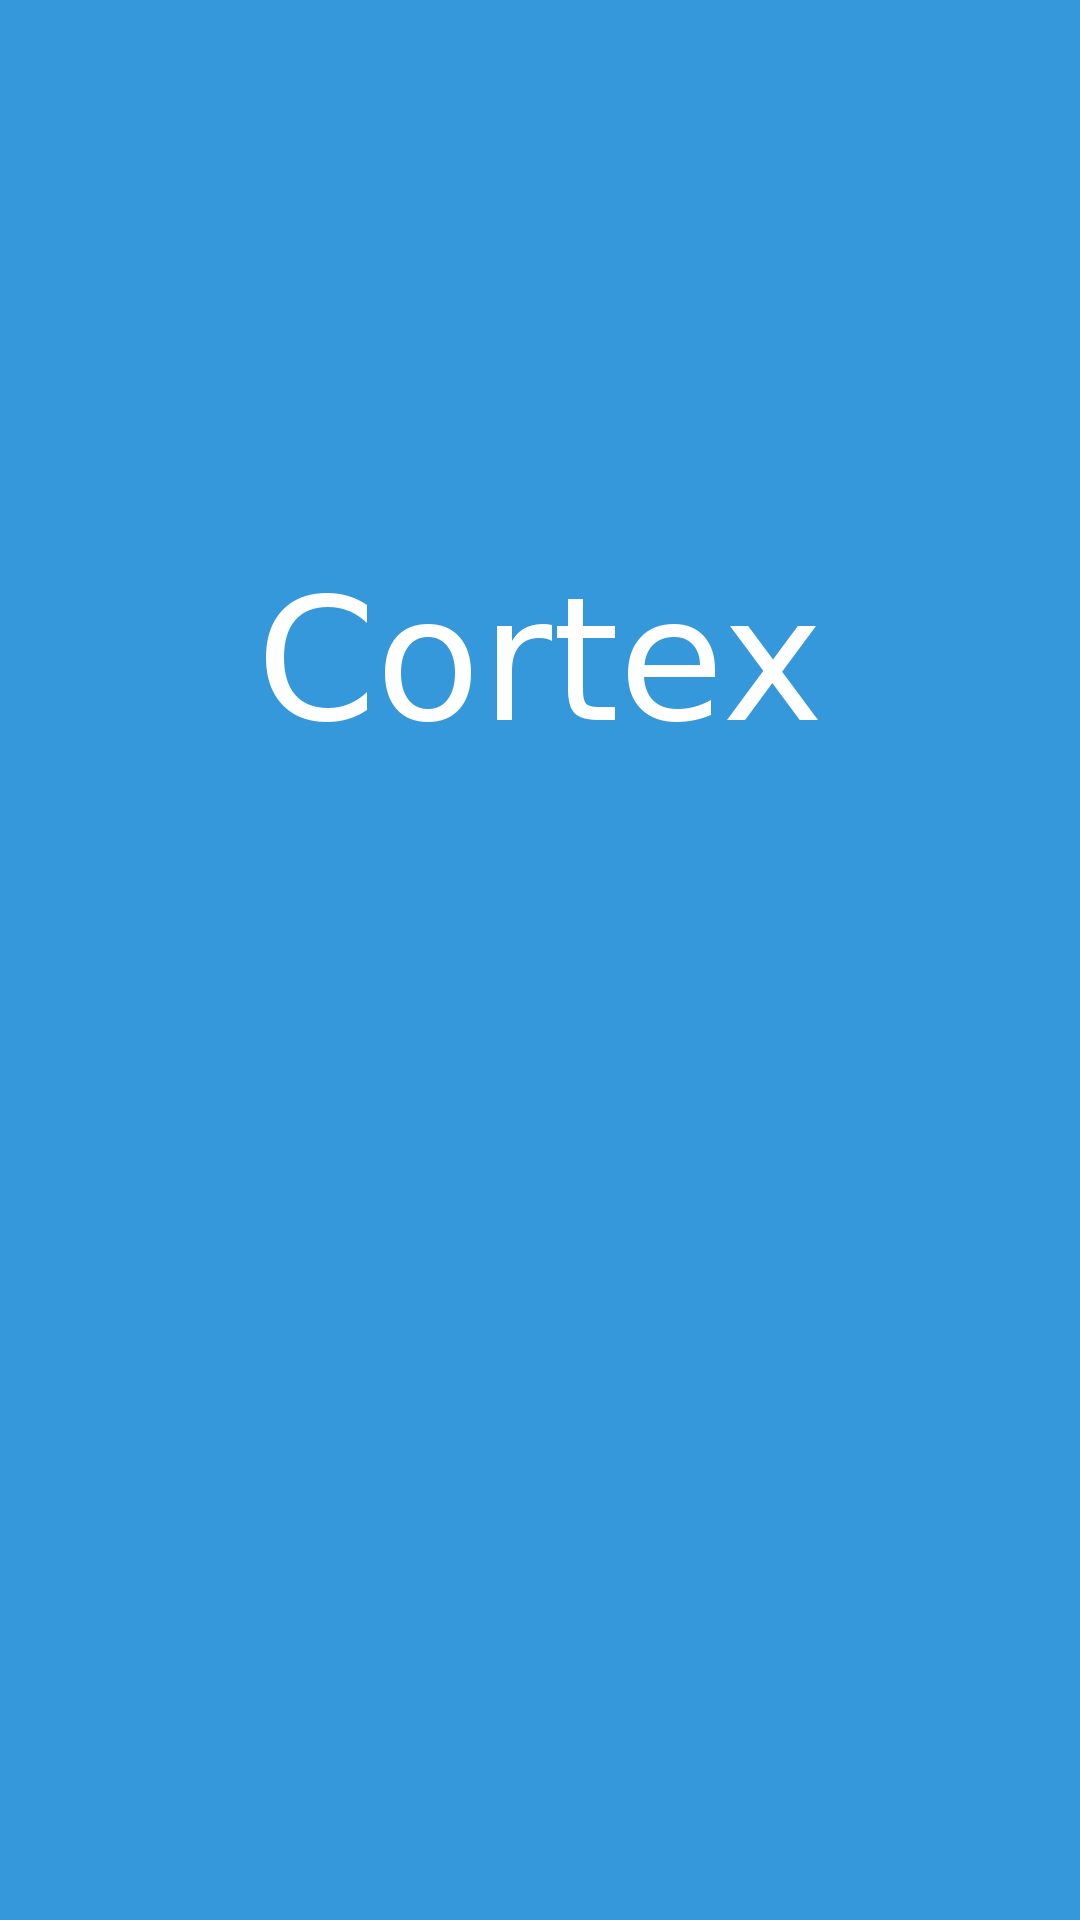
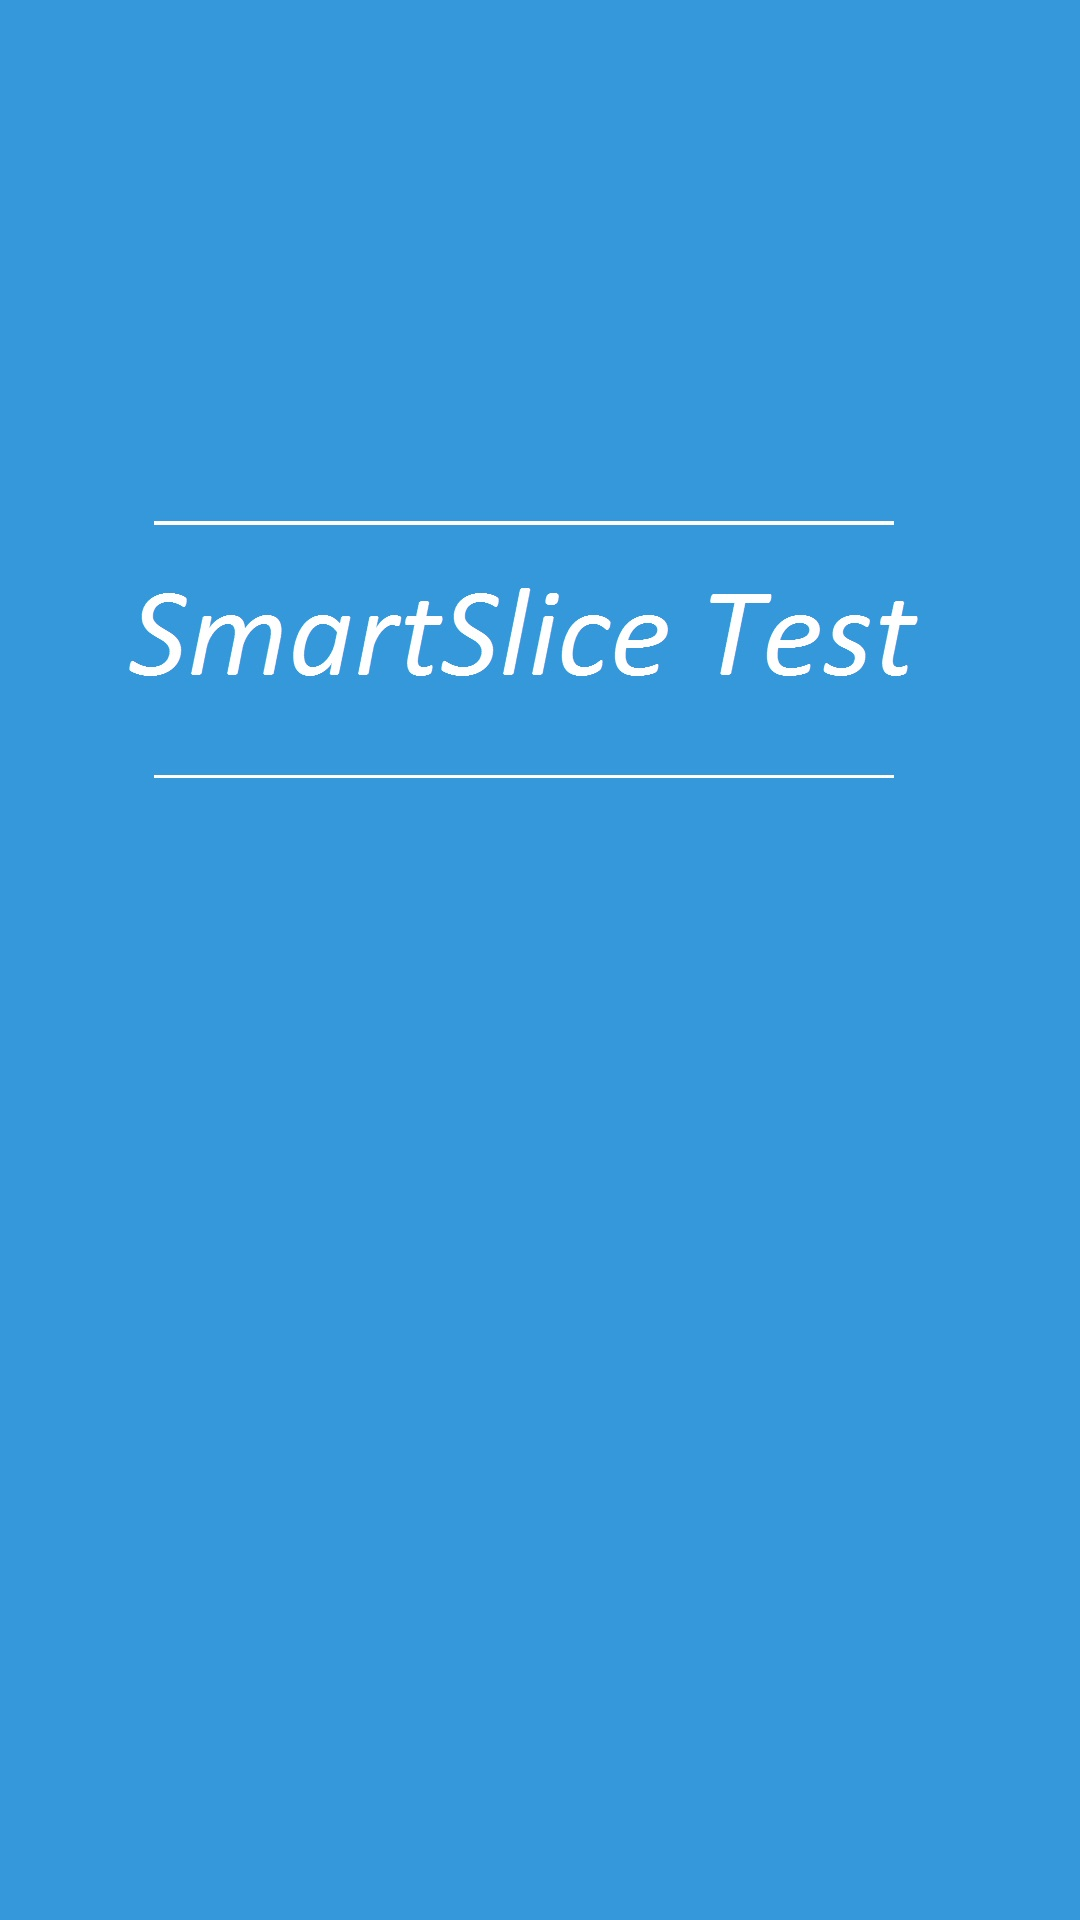
SmartSlice creative setup

Changed region(s): [[0.1222, 0.2812, 0.8556, 0.375]]

diff --git a/src/view.js b/src/view.js
@@ -2,17 +2,16 @@
 
 import Placeholder from './placeholder.js';
 import Logger from './logger.js';
-import Tracker from './tracker.js';
+// import Tracker from './tracker.js';
 
-// TODO: Change this.
-const CAMPAIGN = 'com.cortexpowered.campaigns.test-campaign';
+// const CAMPAIGN = 'com.cortexpowered.campaigns.test-campaign';
 
 class View {
   constructor() {
-    this.placeholder = new Placeholder();
+      this.placeholder = new Placeholder();
+      this.placeholder.render();
 
-    this.rows = [];
-    this.currentRow = 0;
+    this.rows = null;
     this.deviceId = '';
 
     this.container = window.document.getElementById('container');
@@ -60,8 +59,8 @@ class View {
    *
    * @param {array} data The data rows.
    */
-  setData(data) {
-    this.rows = data;
+    setData(data) {
+      this.rows = data;
 
     if (data && data.length > 0) {
       this.deviceId = data[0]._device_id;
@@ -75,14 +74,13 @@ class View {
    */
   render() {
     Logger.log('Rendering a new view.');
-    if (this.rows === null || this.rows.length === 0) {
-      Tracker.track(this.deviceId, CAMPAIGN, 'placeholder');
-      this.placeholder.render();
+    if (this.rows === null) {
+      //Tracker.track(this.deviceId, CAMPAIGN, 'placeholder');
       return;
     }
 
     this.placeholder.hide();
-    Tracker.track(this.deviceId, CAMPAIGN, 'normal');
+    //Tracker.track(this.deviceId, CAMPAIGN, 'normal');
     this._render();
   }
 
@@ -112,9 +110,6 @@ class View {
    * and we have data stored in this.rows. This is the place where you actually
    * render some content on the screen based on the incoming dynamic data.
    *
-   * Current implementation simply iterates over rows and displays a single row
-   * every time the app is visible on the screen.
-   *
    * It is important to be as efficient as possible in this method. Try to
    * make as few DOM manipulations as possible. Reusing DOM elements is better
    * than recreating them every time this method is called.
@@ -122,14 +117,8 @@ class View {
    * TODO: Implement this method according to your needs.
    */
   _render() {
-    if (this.currentRow >= this.rows.length) {
-      this.currentRow = 0;
-    }
-    Logger.log(`The view has ${this.rows.length} data rows. ` +
-               `Displaying row #${this.currentRow}.`);
-    const row = this.rows[this.currentRow];
-    this.currentRow += 1;
-    this.pre.innerText = JSON.stringify(row, null, 2);
+    Logger.log(`The view has ${this.rows.length} data rows. `);
+    this.pre.innerText = JSON.stringify(this.rows, null, 2);
   }
 }
 

diff --git a/src/test-data.js b/src/test-data.js
@@ -1,20 +1,20 @@
 /* eslint-disable */
 
-// TODO: Update this file with the test data. The format should be exactly what
-// you get from Silo.
-
 const TEST_DATA = [
   {
-    "_index": "device1",
-    "neighborhood": "West Village"
+      "_device_id": "d-30c1a338-085b-4df9-791d-1c03f1c8d2a3",
+      "_index": "QU-02-125016-L",
+      "is_test_data": true
   },
   {
-    "_index": "device2",
-    "neighborhood": "East Village"
+      "_device_id": "d-9ac3c8b2-838b-4223-79a1-8c6aa96f3531",
+      "_index": "QU-02-125016-L",
+      "is_test_data": true
   },
   {
-    "_index": "device3",
-    "neighborhood": "Chelsea"
+      "_device_id": "d-525e7aee-8534-4f93-7497-a6eb7327d540",
+      "_index": "QU-02-125016-L",
+      "is_test_data": true
   }
 ];
 

diff --git a/src/data.js b/src/data.js
@@ -13,7 +13,7 @@ class Data {
   init() {
     window.addEventListener(HIDDEN_EVENT, () => {
       Logger.log('Received vistar-hidden event.');
-      if (this.newData !== null && this.newData.length > 0) {
+      if (this.newData !== null) {
         this.view.setData(this.newData);
         this.newData = null;
       }
@@ -31,7 +31,7 @@ class Data {
       Logger.log('Received data from Silo.', {cached: cached, data: data});
 
       if (data === null || data.length === 0) {
-        return Logger.log('Ignoring empty data from Silo.');
+        Logger.log('Ignoring empty data from Silo.');
       }
 
       this.newData = data;

diff --git a/src/placeholder.js b/src/placeholder.js
@@ -20,7 +20,6 @@ class Placeholder {
    * The view generated will get hidden once the data arrives using the
    * Placeholder.hide() method.
    *
-   * TODO: Implement this method according to your needs.
    */
   render() {
     Logger.log('Rendering the placeholder image.');
@@ -45,7 +44,6 @@ class Placeholder {
    * This method gets called when the app receives data and the placeholder
    * is no longer needed.
    *
-   * TODO: Implement this method according to your needs.
    */
   hide() {
     if (this.hidden) {

diff --git a/src/main.js b/src/main.js
@@ -8,8 +8,7 @@ import Simulator from './simulator.js';
 import Logger from './logger.js';
 import {READY_EVENT} from './events.js';
 
-// TODO: Update this with your production dataset id.
-const DATASET_ID = 'com.cortexpowered.test-dataset';
+const DATASET_ID = 'com.intersection.test.smartslice';
 
 /**
  * Starts the app in simulation mode.

diff --git a/html/index.html b/html/index.html
@@ -1,8 +1,8 @@
-<!DOCTYPE html>
+<!DOCTYPE html>
 <html>
   <head>
     <meta charset="utf-8">
-    <title>Cortex Test HTML5 App</title>
+    <title>Smartslice Test</title>
     <meta name="viewport" content="width=device-width, initial-scale=1">
   </head>
   <body>

diff --git a/src/tracker.js b/src/tracker.js
@@ -1,6 +1,5 @@
 import Ajax from './ajax.js';
 
-// TODO: Change this with a production token.
 const TOKEN = 'token';
 const API_URL = 'https://fleet.cortexpowered.com/api/track';
 

diff --git a/css/main.css b/css/main.css
@@ -13,6 +13,7 @@ html, body {
   margin: 0;
   overflow: hidden;
   color: #fff;
+  font-size: 2em;
 }
 
 .placeholder {
